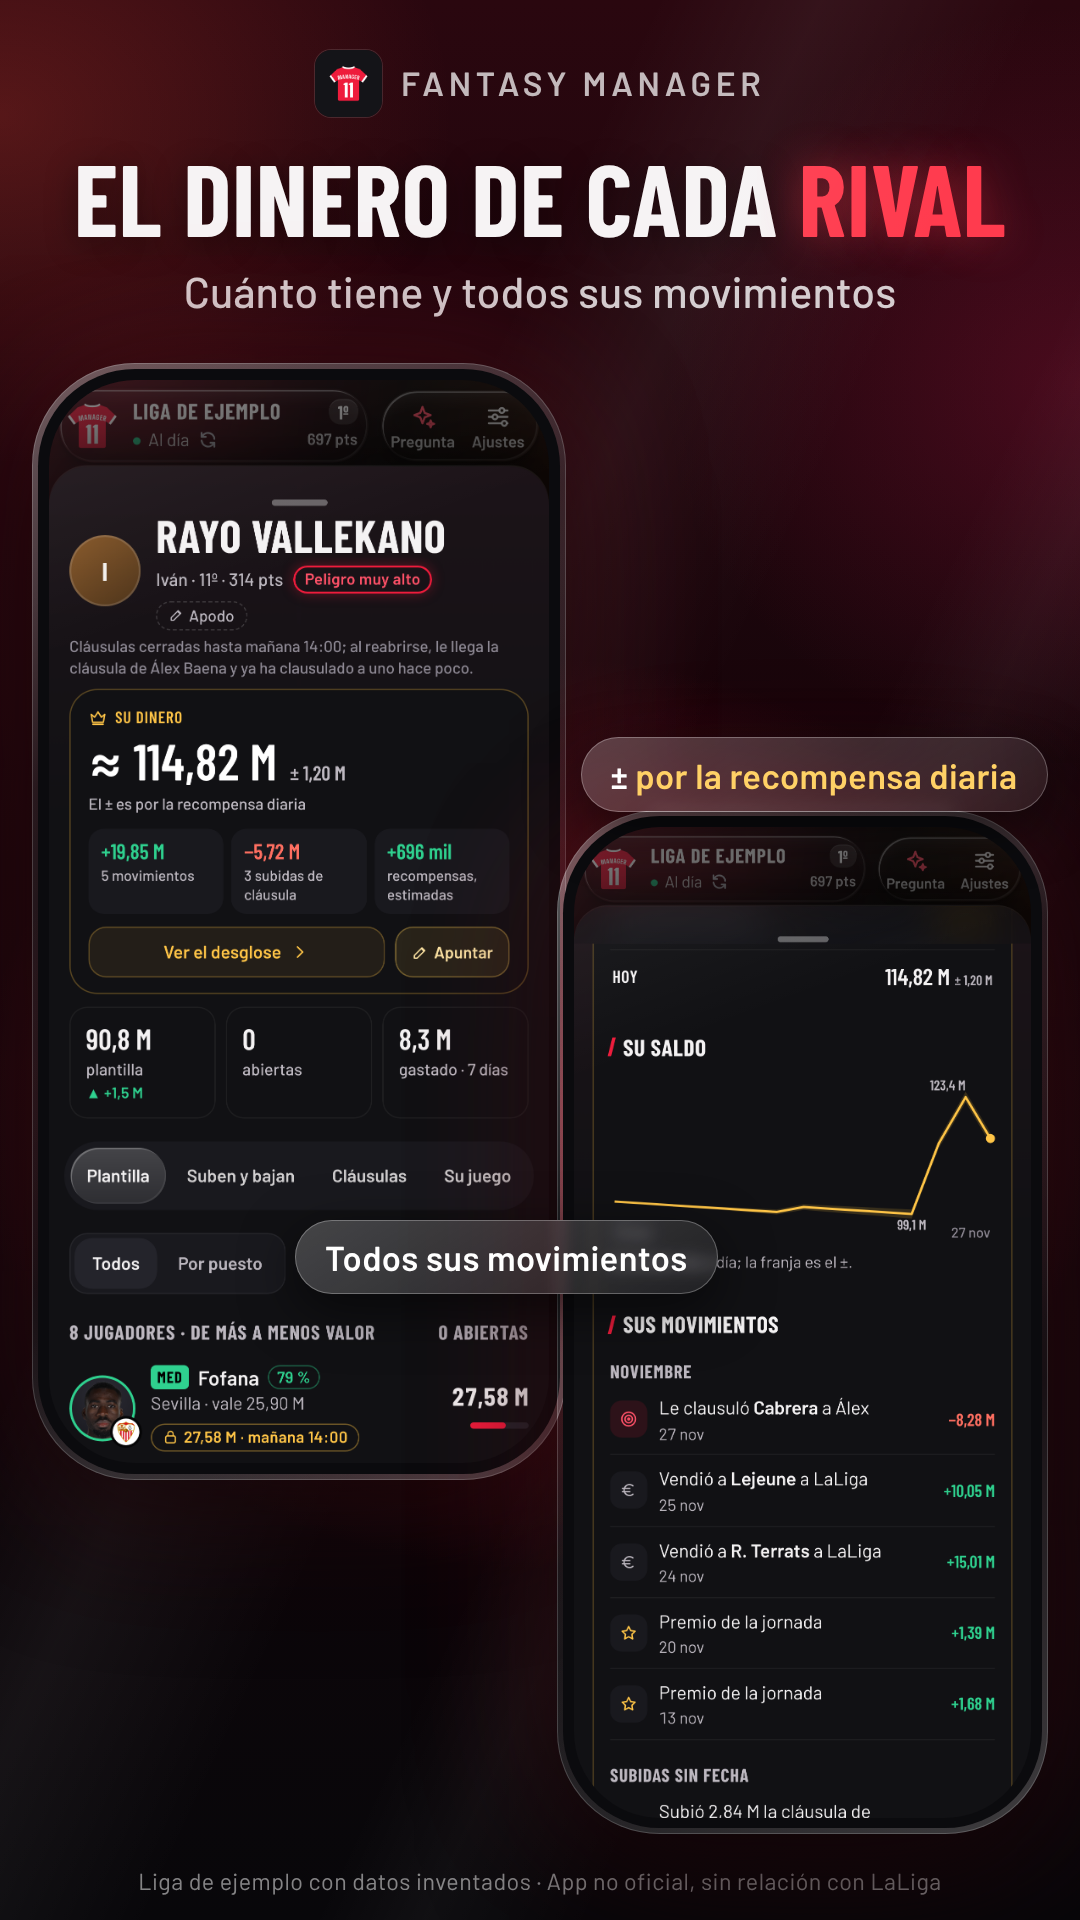
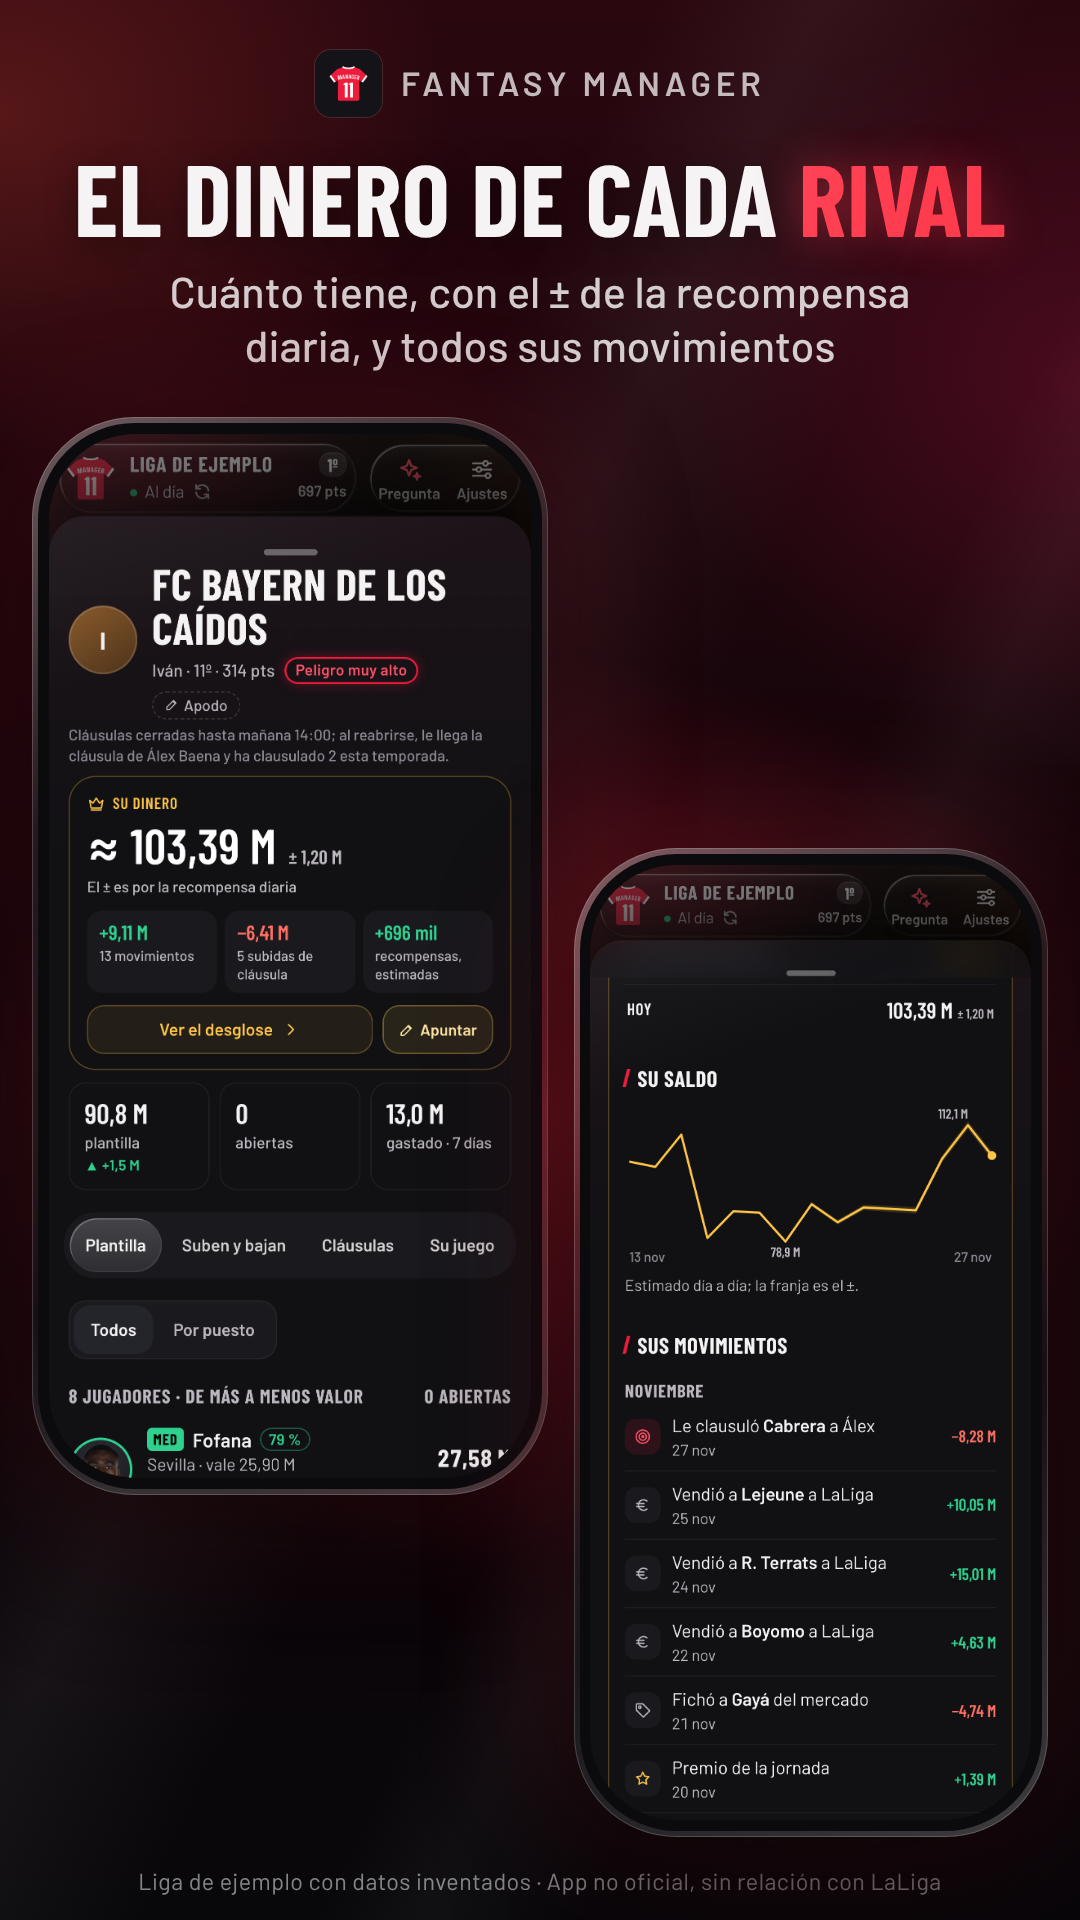
Tarjetas: la del dinero, con el FC Bayern de los Caídos, una gráfica con historia y sin etiquetas
Claude-Session: https://claude.ai/code/session_01H9251NKD5V5GkiHvgo1Xmh

diff --git a/tienda/LEEME.md b/tienda/LEEME.md
@@ -25,4 +25,4 @@ VISTO BUENO DE CARLOS (28 nov, 02:38) a las tarjetas y a los textos. EN LA APP S
 tienda/app-store-con-caras-6.9 y tienda/app-store-con-caras-6.3 (si Apple pone pegas por las caras, las de sin caras).
 En Google Play, tienda/google-play. Siguen sin subir: a la vez en las dos tiendas, cuando Apple apruebe la 0.8.5.
 
-(28 nov, 15:0x; Carlos) 01-rival rehecha desde la ficha de un rival (Rayo Vallekano, liga de ejemplo): dos móviles, la tarjeta del dinero con su ± por la recompensa diaria y el desglose con su saldo y todos sus movimientos (0.9d). Las pantallas, con rival.mjs (RIVAL=Rayo; DESGLOSE=1 HASTA="SU SALDO" DY=110 para la segunda) sobre la web de main; componer.mjs junta las dos si hay rival.png y rival2.png.
+(28 nov, 15:0x; Carlos) 01-rival rehecha desde la ficha de un rival («FC Bayern de los Caídos»: el Rayo Vallekano de la liga de ejemplo con otro nombre y unas semanas más de mercado, solo para la foto; lo pidió Carlos a las 14:59): dos móviles, la tarjeta del dinero con su ± y el desglose con su saldo y todos sus movimientos (0.9d); lo del ± y los movimientos va solo en el subtítulo. Las pantallas, con rival.mjs (RIVAL=Rayo; DESGLOSE=1 HASTA="SU SALDO" DY=110 para la segunda) sobre la web de main; componer.mjs junta las dos si hay rival.png y rival2.png.
